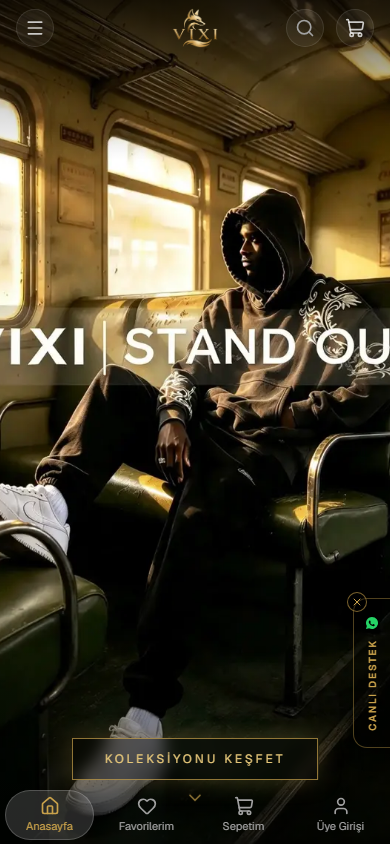
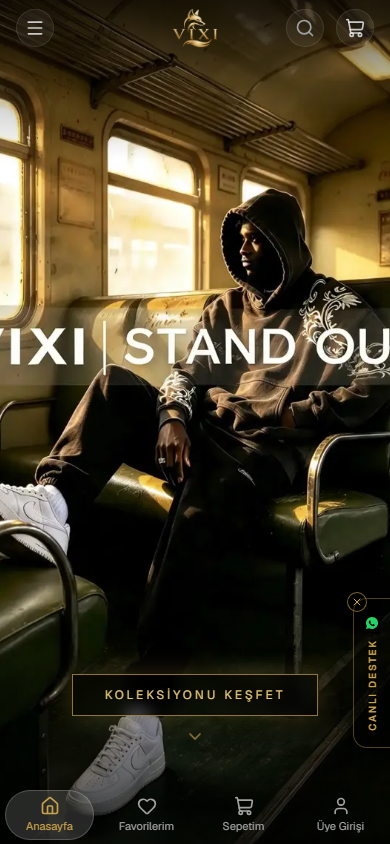
Mobil deneyim ekran goruntulerini portfoye ekle
Ziyaretcilerin buyuk bolumu mobilde oldugu icin referans vitrinin mobil kullanilabilirligini acikca gostermek satis sayfasini guclendiriyor. Guncel mobil goruntu case-study ve proje README tarafiyla ayni tutuldu.

diff --git a/index.html b/index.html
@@ -40,6 +40,8 @@ h2::after{content:'';display:block;width:48px;height:3px;background:var(--gold);
 .shots{display:grid;grid-template-columns:1fr 1fr;gap:14px;margin-top:22px}
 .shots img{width:100%;border-radius:10px;border:1px solid var(--border);display:block;cursor:zoom-in;transition:border-color .2s}
 .shots img:hover{border-color:var(--gold)}
+.shots.mobile-shots{display:flex;justify-content:center;flex-wrap:wrap}
+.shots.mobile-shots img{width:min(220px,40vw);flex:0 0 auto}
 .lb{position:fixed;inset:0;background:rgba(0,0,0,.92);z-index:100;display:none;align-items:center;justify-content:center;flex-direction:column;padding:30px}
 .lb.open{display:flex}
 .lb img{max-width:92vw;max-height:80vh;border-radius:10px;border:1px solid var(--border)}
@@ -110,6 +112,12 @@ footer{border-top:1px solid var(--border);padding:30px 0;text-align:center;color
       <img src="screenshots/desktop-product.png" alt="Vitrin — ürün detayı">
       <img src="screenshots/desktop-checkout.png" alt="Vitrin — güvenli ödeme">
       <img src="screenshots/hesabim.png" alt="Vitrin — üye hesabı">
+    </div>
+    <h3 style="margin-top:26px;font-size:20px;color:var(--gold);text-align:center">Mobil Deneyim</h3>
+    <p style="font-size:15px;color:var(--muted);margin-bottom:4px;text-align:center">Vitrin, gerçek alışveriş trafiğinin en yoğun olduğu mobil ekranda da hızlı ve net çalışır:</p>
+    <div class="shots mobile-shots" style="margin-top:10px">
+      <img src="screenshots/mobile-home.png" alt="Mobil vitrin — ana sayfa">
+      <img src="screenshots/mobile-product.png" alt="Mobil vitrin — ürün detayı">
     </div>
     <h3 style="margin-top:26px;font-size:20px;color:var(--gold);text-align:center">Admin Paneli</h3>
     <p style="font-size:15px;color:var(--muted);margin-bottom:4px;text-align:center">Site sahibi her şeyi kendisi yönetir — sipariş, ürün, stok, müşteri, vitrin ayarları:</p>
